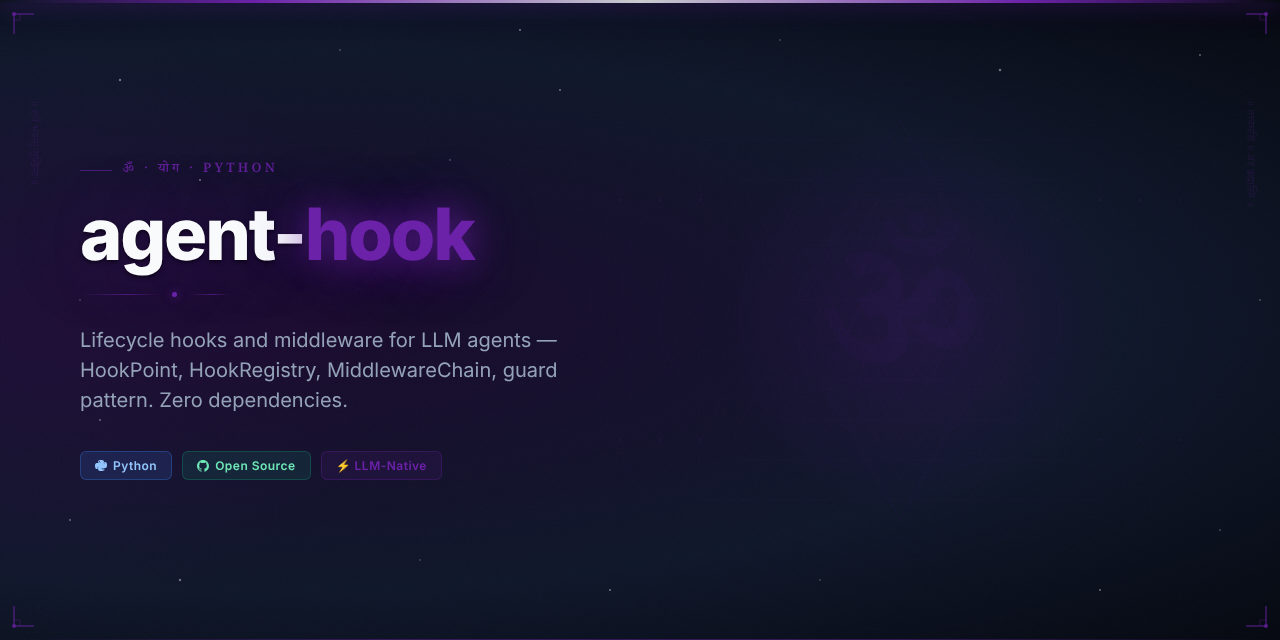
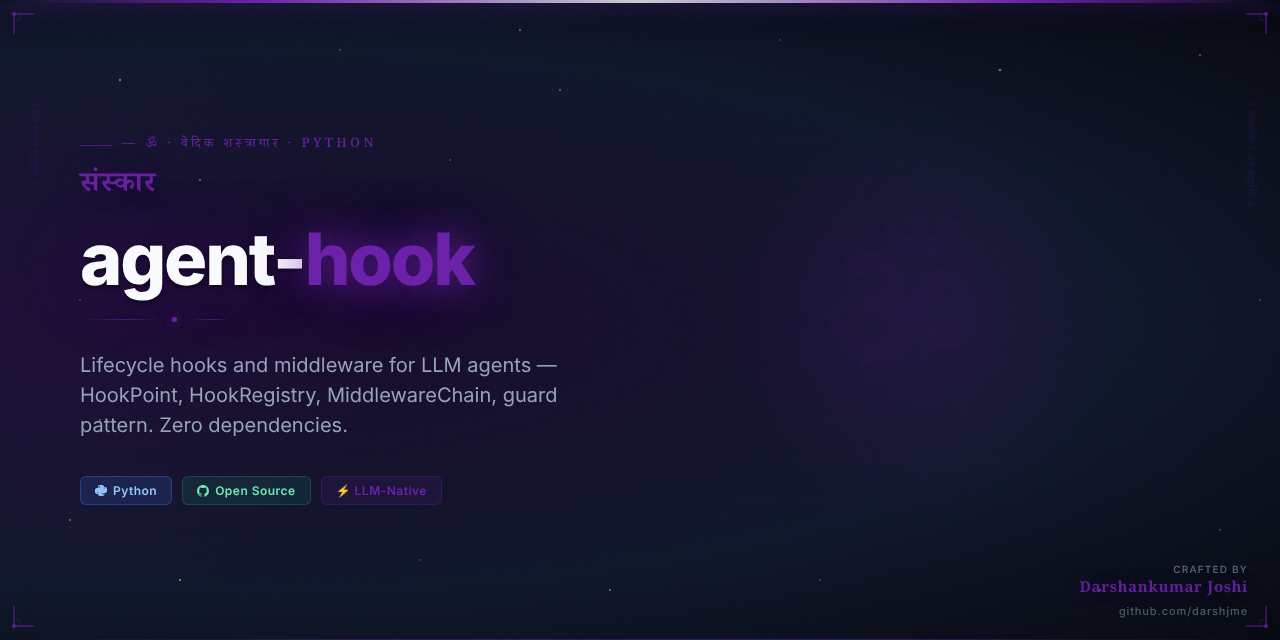
feat: add Vedic Arsenal hero image and updated README
Part of darshjme/arsenal — 100 production-grade Python libraries for LLM agents.
Vedic branding: ancient philosophy meets modern AI engineering.

diff --git a/README.md b/README.md
@@ -1,10 +1,12 @@
 <div align="center">
 
-<img src="assets/agent-hook-hero.png" alt="agent-hook — Vedic Arsenal" width="100%" />
+<img src="assets/agent-hook-hero.png" alt="agent-hook — Vedic Arsenal by Darshankumar Joshi" width="100%" />
 
 # 🔮 agent-hook
 
-### *संस्कार* — Samskara — the hooks of karmic conditioning
+<h3><em>संस्कार</em></h3>
+
+> *Samskara — the hooks of karmic conditioning*
 
 **Lifecycle hooks and middleware for LLM agents — HookPoint, HookRegistry, MiddlewareChain, guard pattern. Zero dependencies.**
 
@@ -39,6 +41,19 @@ Or clone directly:
 git clone https://github.com/darshjme/agent-hook.git
 cd agent-hook
 pip install -e .
+```
+
+## How It Works
+
+```mermaid
+flowchart LR
+    A[Input] --> B[agent-hook]
+    B --> C{Process}
+    C -- Success --> D[Output]
+    C -- Error --> E[Handle / Retry]
+    E --> B
+    style B fill:#6b21a8,color:#fff
+    note["Hook — Zero Dependencies"]
 ```
 
 ## Quick Start
@@ -90,7 +105,7 @@ MIT — use freely, build freely.
 
 <div align="center">
 
-**Built with 🔮 by [Darshankumar Joshi](https://github.com/darshjme)**
+**Built with 🔮 by [Darshankumar Joshi](https://github.com/darshjme)** · [@thedarshanjoshi](https://twitter.com/thedarshanjoshi)
 
 *"कर्मण्येवाधिकारस्ते मा फलेषु कदाचन"*
 *Your right is to action alone, never to the fruits thereof.*
